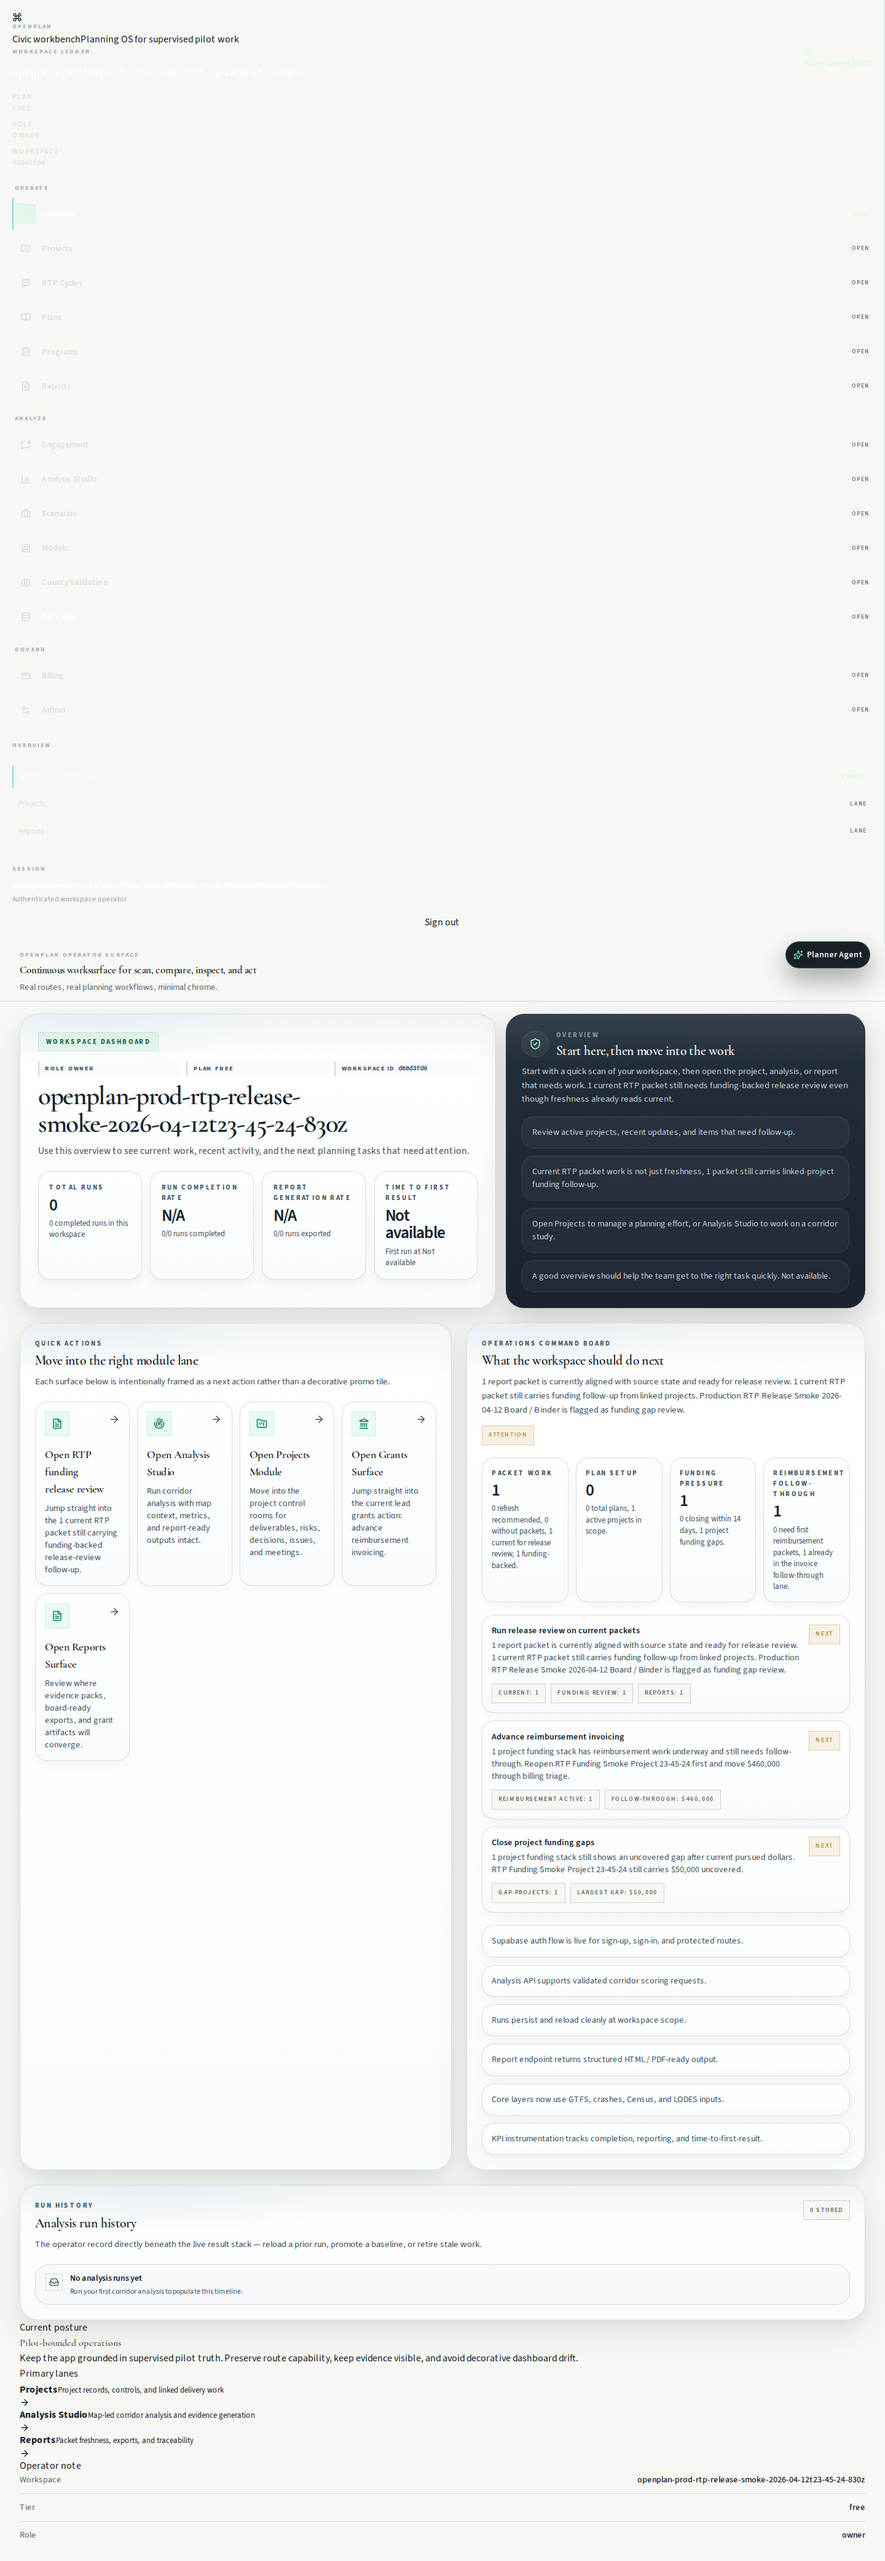
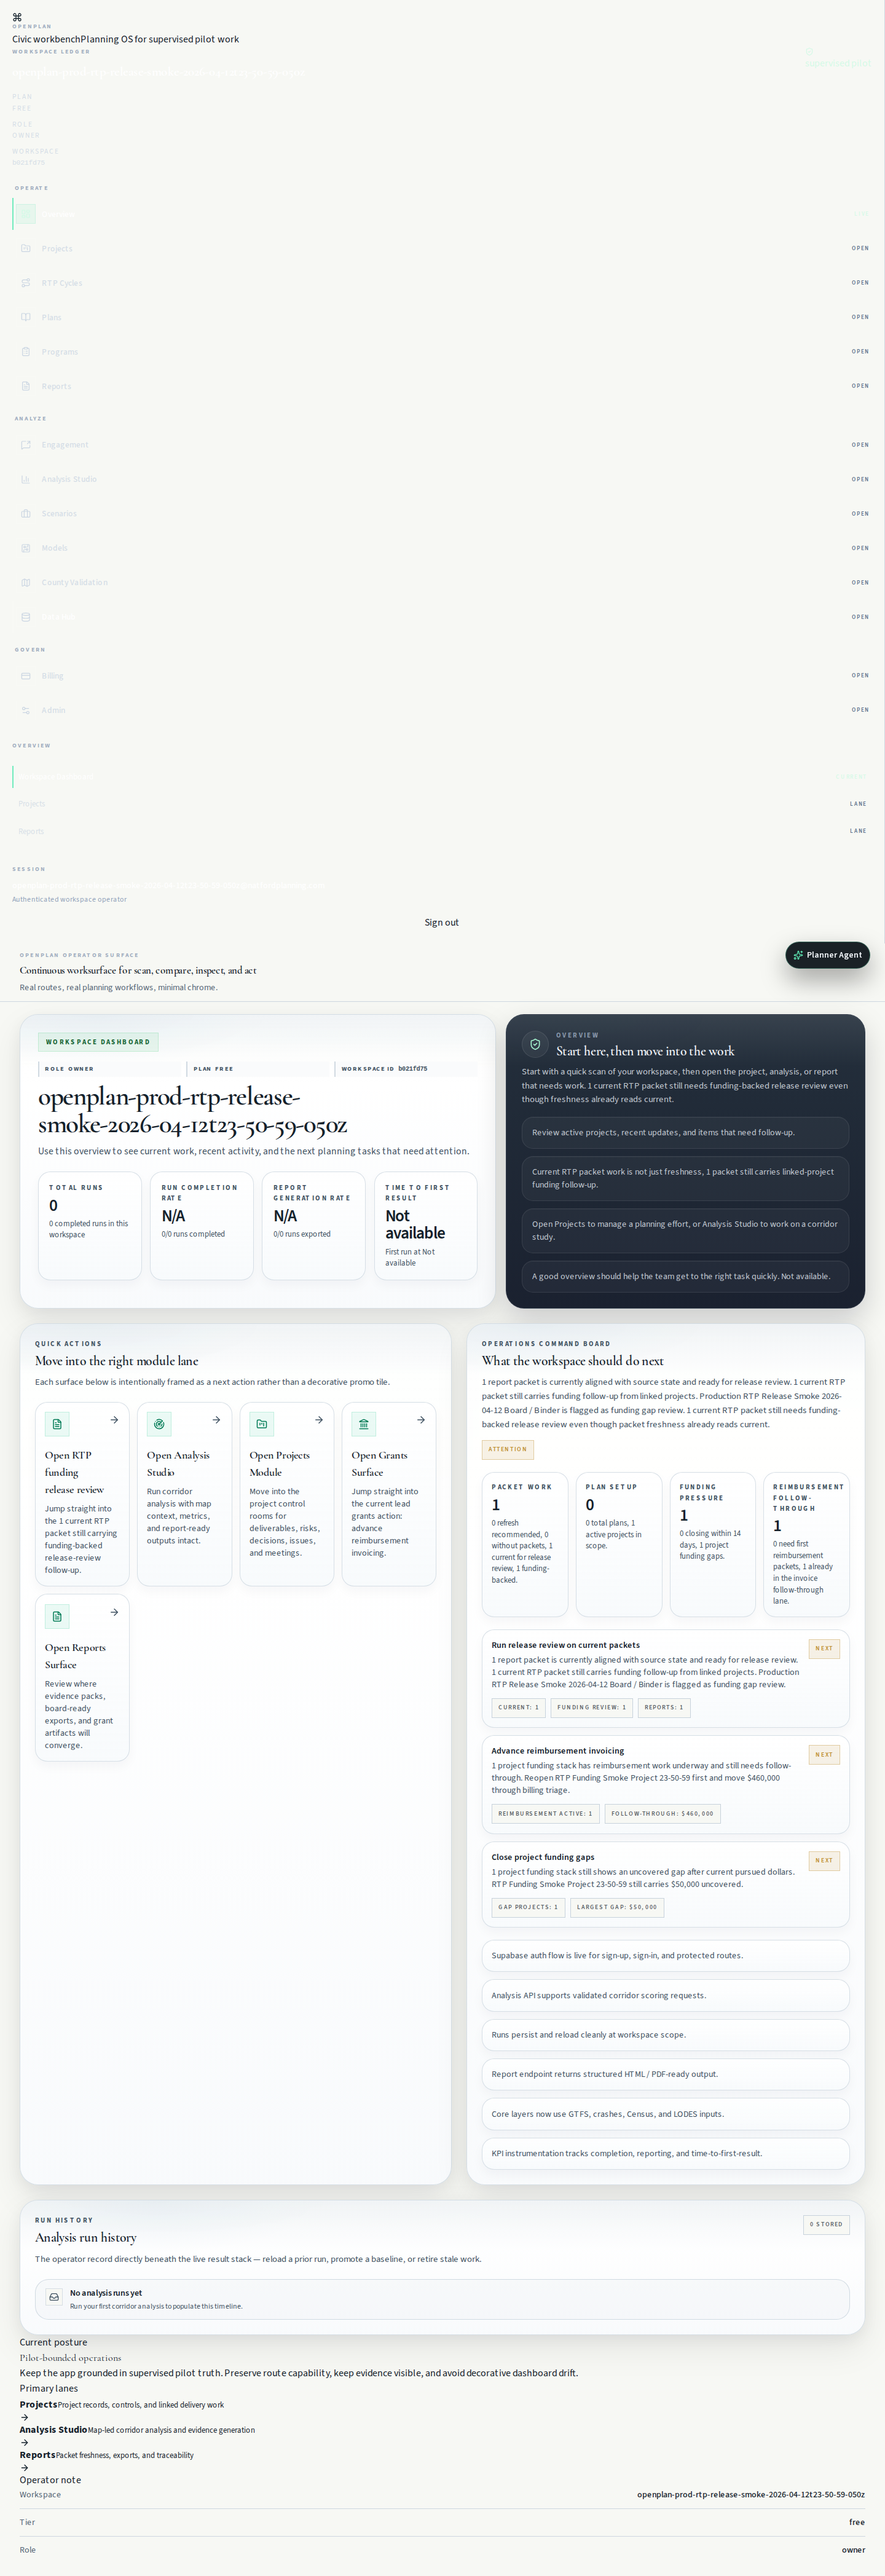
feat: carry RTP funding review across shared command boards

diff --git a/openplan/src/components/operations/workspace-command-board.tsx b/openplan/src/components/operations/workspace-command-board.tsx
@@ -26,6 +26,10 @@ function postureLabel(posture: WorkspaceOperationsSummary["posture"]) {
   }
 }
 
+function pluralize(count: number, singular: string, plural = `${singular}s`) {
+  return `${count} ${count === 1 ? singular : plural}`;
+}
+
 export function WorkspaceCommandBoard({
   summary,
   label = "Operations command board",
@@ -43,6 +47,11 @@ export function WorkspaceCommandBoard({
   const reimbursementAdvanceCount = summary.counts.projectFundingReimbursementActiveProjects;
   const reimbursementPressure = reimbursementStartCount + reimbursementAdvanceCount;
   const rtpFundingReviewCount = summary.counts.rtpFundingReviewPackets;
+  const baseDescription = description ?? summary.detail;
+  const effectiveDescription =
+    rtpFundingReviewCount > 0
+      ? `${baseDescription} ${pluralize(rtpFundingReviewCount, "current RTP packet")} still ${rtpFundingReviewCount === 1 ? "needs" : "need"} funding-backed release review even though packet freshness already reads current.`
+      : baseDescription;
 
   return (
     <article className="module-section-surface">
@@ -50,7 +59,7 @@ export function WorkspaceCommandBoard({
         <div className="module-section-heading">
           <p className="module-section-label">{label}</p>
           <h2 className="module-section-title">{title}</h2>
-          <p className="module-section-description">{description ?? summary.detail}</p>
+          <p className="module-section-description">{effectiveDescription}</p>
         </div>
         <StatusBadge tone={postureTone(summary.posture)}>{postureLabel(summary.posture)}</StatusBadge>
       </div>

diff --git a/qa-harness/openplan-prod-rtp-release-review-smoke.js b/qa-harness/openplan-prod-rtp-release-review-smoke.js
@@ -278,8 +278,9 @@ async function main() {
     if (dashboardReviewHref !== `/reports/${ids.reportId}#packet-release-review`) {
       throw new Error(`Dashboard RTP funding review action did not target the expected packet release-review path. Received ${dashboardReviewHref}`);
     }
+    await page.getByText(/1 current RTP packet still needs funding-backed release review even though packet freshness already reads current\./i).first().waitFor({ timeout: 30000 });
     await page.getByText(/1 current for release review, 1 funding-backed\./i).first().waitFor({ timeout: 30000 });
-    notes.push('Dashboard quick actions and shared command board both surfaced the RTP funding-backed release-review lane.');
+    notes.push('Dashboard quick actions and shared command board copy both surfaced the RTP funding-backed release-review lane.');
     await screenshot('prod-rtp-release-review-dashboard');
 
     await page.goto(`${productionBaseUrl}/reports`, { waitUntil: 'networkidle' });

diff --git a/openplan/src/test/workspace-command-board.test.tsx b/openplan/src/test/workspace-command-board.test.tsx
@@ -78,6 +78,9 @@ describe("WorkspaceCommandBoard", () => {
   it("surfaces funding-backed RTP packet review in shared packet work copy", () => {
     render(<WorkspaceCommandBoard summary={summary} />);
 
+    expect(
+      screen.getByText(/1 current RTP packet still needs funding-backed release review even though packet freshness already reads current\./i)
+    ).toBeInTheDocument();
     expect(screen.getByText(/1 current for release review, 1 funding-backed\./i)).toBeInTheDocument();
     expect(screen.getByRole("link", { name: /Run release review on current packets/i })).toHaveAttribute(
       "href",

diff --git a/docs/ops/2026-04-12-openplan-production-rtp-release-review-smoke.md b/docs/ops/2026-04-12-openplan-production-rtp-release-review-smoke.md
@@ -1,28 +1,28 @@
 # OpenPlan Production RTP Release-Review Smoke — 2026-04-12
 
 - Base URL: https://openplan-natford.vercel.app
-- QA user email: openplan-prod-rtp-release-smoke-2026-04-12T23-45-24-830Z@natfordplanning.com
+- QA user email: openplan-prod-rtp-release-smoke-2026-04-12T23-50-59-050Z@natfordplanning.com
 - QA user id: unknown
-- Workspace id: d68d3fd0-8ab5-456f-ab73-dab0b279b86f
-- RTP cycle id: 99f30b2a-3951-4b46-b358-1d26928a8d78
-- Project id: 0568450a-5625-422c-8f05-9a5e0786f793
-- Opportunity id: 4aecfdcf-1f38-47e1-99cc-84c1a3a45d6f
-- Award id: fadb0d1e-9144-4074-a539-57ac5a90ed52
-- Invoice id: e43ee06d-fa71-4fb8-8fd5-5b60831b66d4
-- Report id: 6af74bc6-beaa-4c79-a7c7-fbe1fb28bd27
+- Workspace id: b021fd75-1f24-47a0-a75a-c262239801fa
+- RTP cycle id: 043f455f-8249-474c-9f69-9115a1f2cee7
+- Project id: 0908adbf-2a3c-495f-be8f-2556b6958715
+- Opportunity id: 24e0946d-7174-4ee2-93c2-29a1e01a8406
+- Award id: 818c9503-3631-4547-8e32-bdf0c2ab0ba3
+- Invoice id: 9d343d78-aefd-494c-82da-c9ea14bfd11b
+- Report id: 498c34de-8c26-44e5-9c72-e200916abd58
 
 ## Pass/Fail Notes
-- PASS: Created QA auth user openplan-prod-rtp-release-smoke-2026-04-12T23-45-24-830Z@natfordplanning.com.
+- PASS: Created QA auth user openplan-prod-rtp-release-smoke-2026-04-12T23-50-59-050Z@natfordplanning.com.
 - PASS: Signed into production successfully.
-- PASS: Bootstrapped workspace OpenPlan Prod RTP Release Smoke 23-45-24.
-- PASS: Current workspace resolved to d68d3fd0-8ab5-456f-ab73-dab0b279b86f instead of the freshly bootstrapped workspace 25028390-a31a-4f19-b8e8-6b3dee82261c; RTP smoke data was aligned to the active workspace selection.
+- PASS: Bootstrapped workspace OpenPlan Prod RTP Release Smoke 23-50-59.
+- PASS: Current workspace resolved to b021fd75-1f24-47a0-a75a-c262239801fa instead of the freshly bootstrapped workspace 4dc1241b-b2af-424f-89a8-24b91feb8357; RTP smoke data was aligned to the active workspace selection.
 - PASS: Created production RTP cycle Production RTP Release Smoke 2026-04-12.
-- PASS: Seeded linked RTP project RTP Funding Smoke Project 23-45-24 in the active workspace.
+- PASS: Seeded linked RTP project RTP Funding Smoke Project 23-50-59 in the active workspace.
 - PASS: Linked the smoke project into the RTP cycle portfolio.
 - PASS: Seeded funding profile, opportunity, award, and reimbursement packet for the linked RTP project.
 - PASS: Created RTP board-packet record from the production API.
 - PASS: Generated the first RTP packet artifact on production through the existing report generation route.
-- PASS: Dashboard quick actions and shared command board both surfaced the RTP funding-backed release-review lane.
+- PASS: Dashboard quick actions and shared command board copy both surfaced the RTP funding-backed release-review lane.
 - PASS: Shared runtime reports cue pointed back to the RTP funding release-review packet before opening detail.
 - PASS: Production RTP registry rendered the release-review lane CTA, the row-level current-packet action, and funding-backed release-review cues before opening the packet detail.
 - PASS: Production registry current-packet link landed on the packet release-review anchor in report detail.

diff --git a/docs/ops/2026-04-12-openplan-production-qa-cleanup.md b/docs/ops/2026-04-12-openplan-production-qa-cleanup.md
@@ -1,6 +1,6 @@
 # OpenPlan Production QA Cleanup — 2026-04-12
 
-- Started: 2026-04-12T23:46:06.515Z
+- Started: 2026-04-12T23:51:46.134Z
 - Mode: apply
 - Env path: /home/narford/.openclaw/workspace/openplan/openplan/.env.local
 - Created-after filter: 2026-04-12
@@ -25,7 +25,7 @@
 - workspaces: planned=2
 
 ## Auth plan
-- openplan-prod-rtp-release-smoke-2026-04-12t23-45-24-830z@natfordplanning.com
+- openplan-prod-rtp-release-smoke-2026-04-12t23-50-59-050z@natfordplanning.com
 
 ## Delete results
 - report_artifacts: status=200 ok=true planned=1 deleted=1
@@ -37,7 +37,7 @@
 - workspaces: status=200 ok=true planned=2 deleted=2
 
 ## Auth deletes
-- openplan-prod-rtp-release-smoke-2026-04-12t23-45-24-830z@natfordplanning.com: status=200 ok=true
+- openplan-prod-rtp-release-smoke-2026-04-12t23-50-59-050z@natfordplanning.com: status=200 ok=true
 
 ## Verification
 - Remaining matching workspaces: 0
